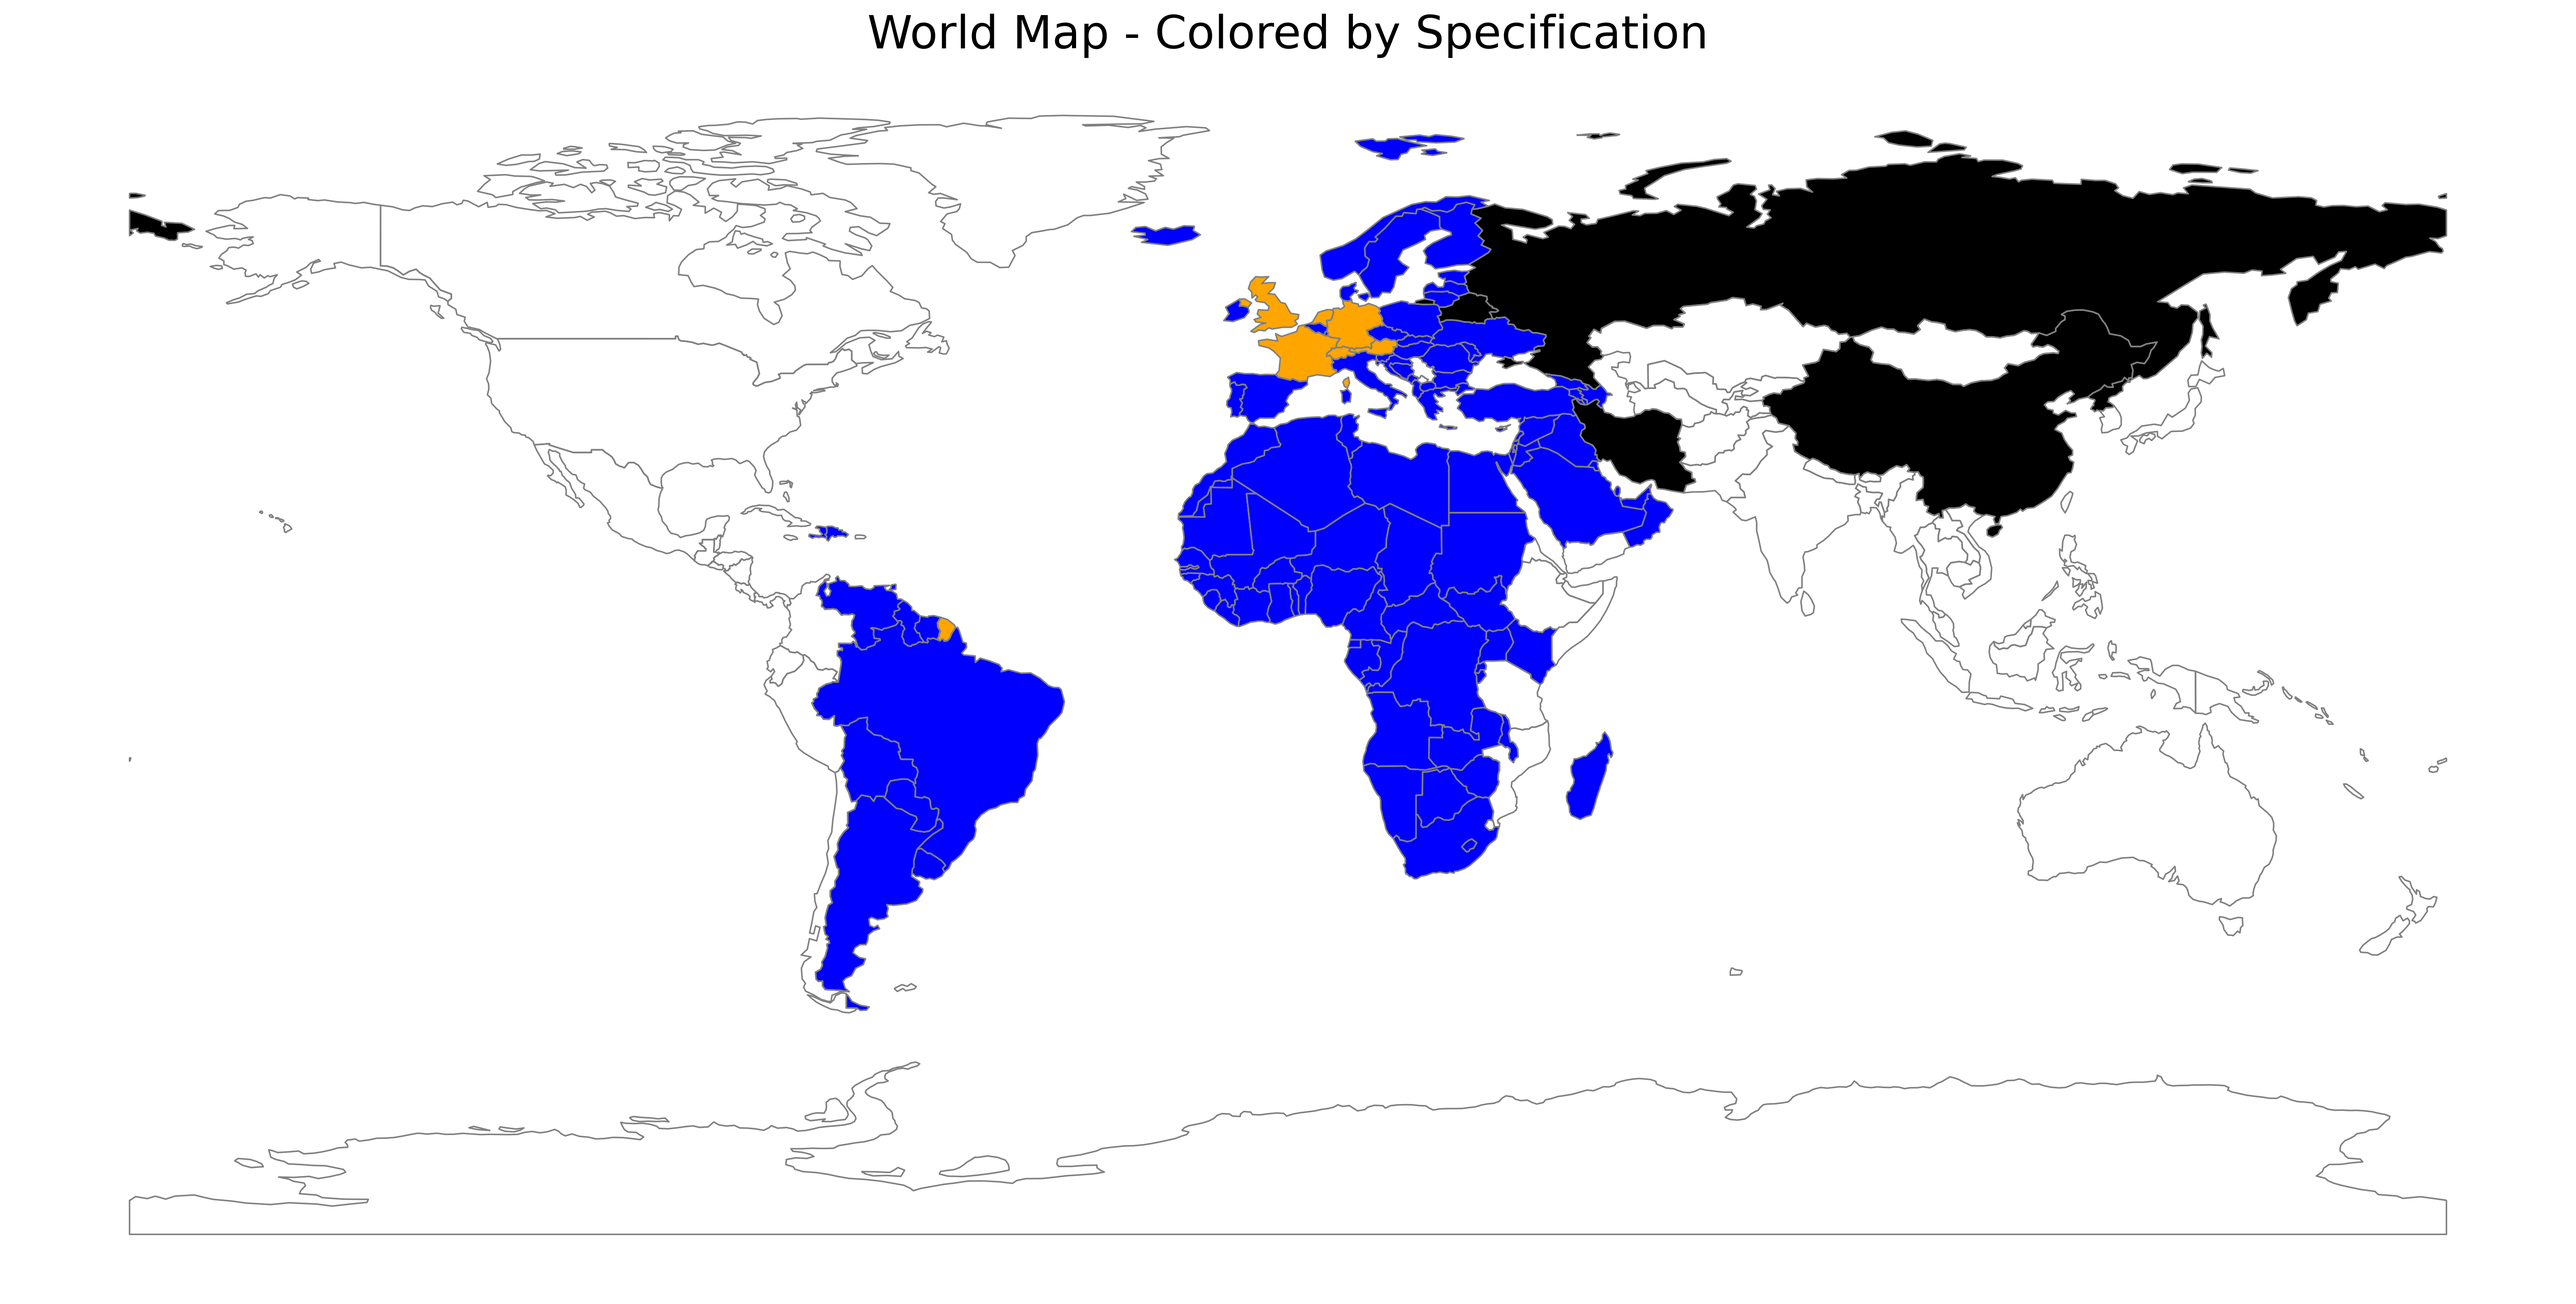
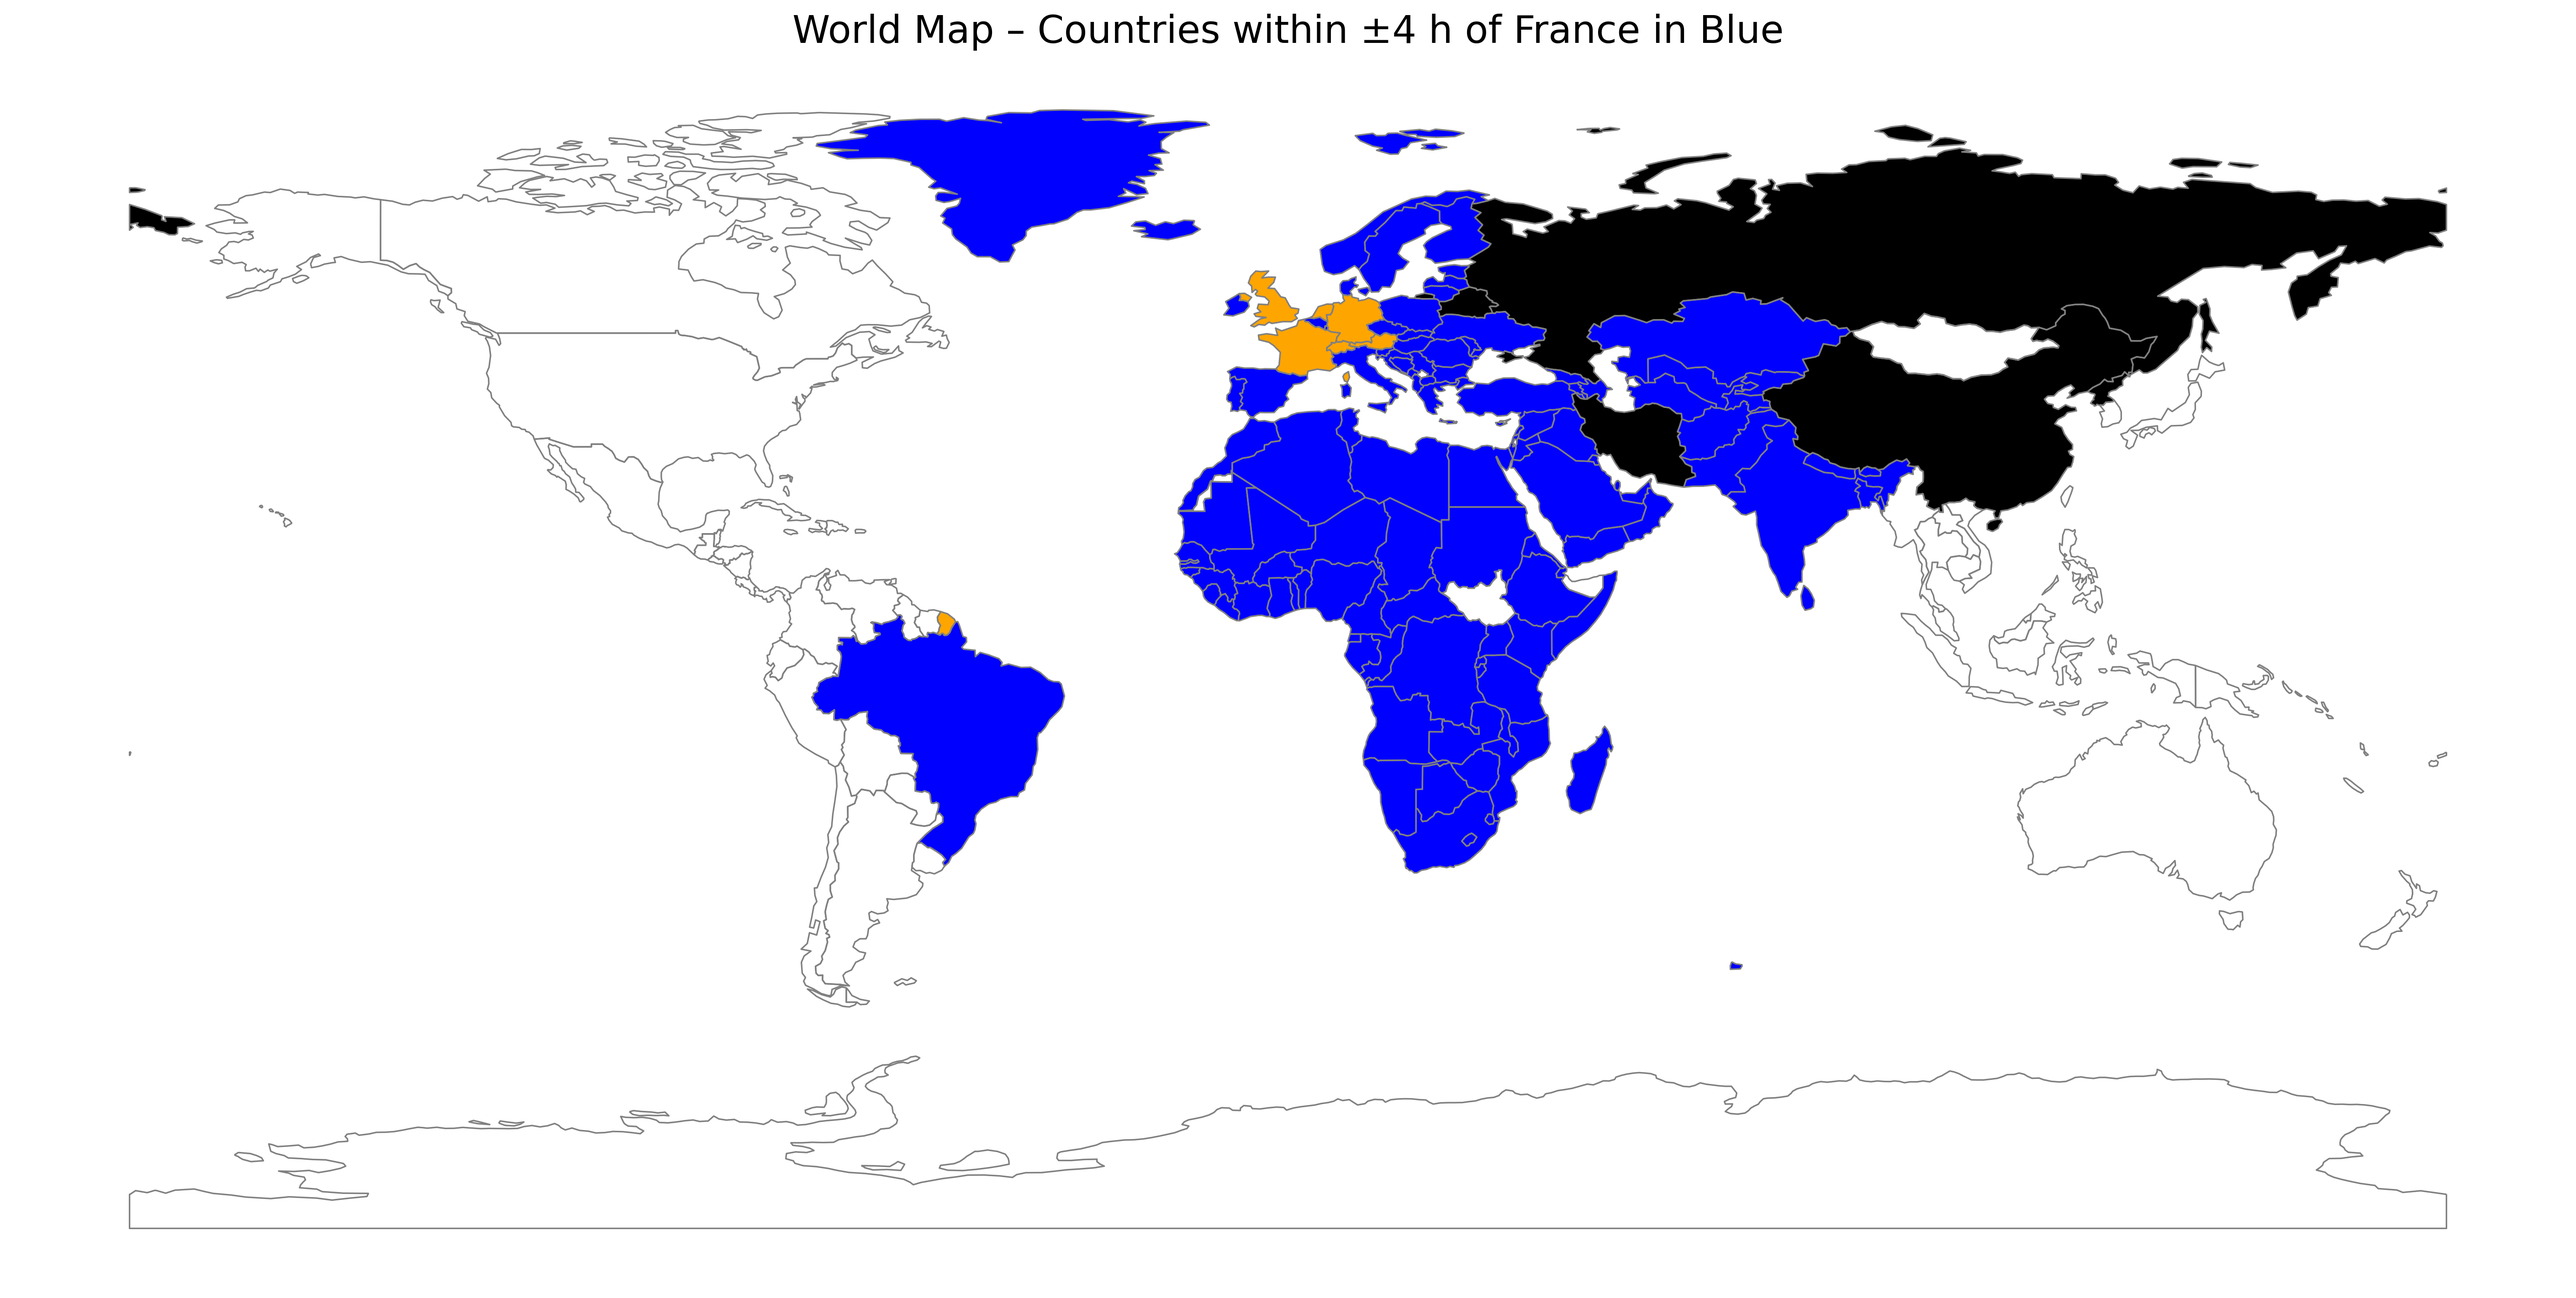
modified:   world_map_coloring.py

diff --git a/world_map_coloring.py b/world_map_coloring.py
@@ -1,73 +1,96 @@
 # world_map_coloring.py
-# 🌍 World Map Coloring Script
+# 🌍 Dynamic ±4 h world map – matching by ISO-3 codes
 
 import geopandas as gpd
 import matplotlib.pyplot as plt
+import pytz
+import pycountry
+import pycountry_convert
+from datetime import datetime, timezone
 
-# URL to the world countries data (GeoJSON format)
-WORLD_MAP_URL = 'https://raw.githubusercontent.com/nvkelso/natural-earth-vector/master/geojson/ne_110m_admin_0_countries.geojson'
+WORLD_MAP_URL = (
+    "https://raw.githubusercontent.com/nvkelso/"
+    "natural-earth-vector/master/geojson/"
+    "ne_110m_admin_0_countries.geojson"
+)
 
-# Define countries to color
-ORANGE_COUNTRIES = ['France', 'Germany', 'United Kingdom', 'Netherlands', 'Switzerland', 'Austria']
-BLACK_COUNTRIES = ['China', 'Russia', 'Belarus', 'Iran', 'North Korea']
-BLUE_COUNTRIES = [
-    # America
-    'Venezuela', 'Guyana', 'Suriname', 'Dominican Republic', 'Haiti', 'Trinidad and Tobago',
-    'Saint Kitts and Nevis', 'Saint Lucia', 'Saint Vincent and the Grenadines', 'Grenada', 'Barbados',
-    'Argentina', 'Uruguay', 'Brazil', 'Paraguay', 'Bolivia', 'Bahamas', 'Bermuda',
-    
-    # Europe
-    'Ireland', 'Portugal', 'Spain', 'Italy', 'Belgium', 'Luxembourg', 'Norway', 'Sweden', 'Denmark',
-    'Finland', 'Poland', 'Czechia', 'Slovakia', 'Hungary', 'Croatia', 'Slovenia', 'Serbia', 
-    'Bosnia and Herzegovina', 'Montenegro', 'North Macedonia', 'Albania', 'Greece', 'Bulgaria',
-    'Romania', 'Ukraine', 'Moldova', 'Estonia', 'Latvia', 'Lithuania', 'Malta', 'Cyprus',
-    'Iceland', 'Andorra', 'San Marino', 'Monaco', 'Liechtenstein',
-    
-    # Africa
-      'Mauritania', 'Western Sahara', 'Morocco', 'Algeria', 'Tunisia', 'Libya', 'Egypt',
-    'Mali', 'Senegal', 'Gambia', 'Guinea', 'Guinea-Bissau', 'Sierra Leone', 'Liberia',
-    'Ivory Coast', 'Ghana', 'Togo', 'Benin', 'Burkina Faso', 'Niger', 'Nigeria',
-    'Chad', 'Cameroon', 'Central African Republic', 'South Sudan', 'Sudan',
-    'Democratic Republic of the Congo', 'Republic of the Congo', 'Gabon', 'Equatorial Guinea',
-    'Uganda', 'Kenya', 'Tanzania', 'Rwanda', 'Burundi', 'Malawi', 'Zambia', 'Zimbabwe',
-    'Angola', 'Namibia', 'Botswana', 'South Africa', 'Lesotho', 'Eswatini', 'Madagascar',
-    'Comoros', 'Seychelles', 'Mauritius',
-    
-    # Middle-East / West-Asia
-    'Turkey', 'Cyprus', 'Israel', 'Palestine', 'Jordan', 'Lebanon', 'Syria', 'Iraq',
-    'Saudi Arabia', 'Kuwait', 'Bahrain', 'Qatar', 'United Arab Emirates', 'Oman',
-    'Armenia', 'Azerbaijan', 'Georgia'
-
+# ───────────────────────────── 1. Static definitions
+ORANGE_COUNTRY_NAMES = [
+    "France", "Germany", "United Kingdom",
+    "Netherlands", "Switzerland", "Austria",
 ]
 
+BLACK_COUNTRY_NAMES = [
+    "China", "Russia", "Belarus",
+    "Iran", "North Korea",
+]
 
-def get_color(country_name):
-    if country_name in ORANGE_COUNTRIES:
-        return 'orange'
-    elif country_name in BLACK_COUNTRIES:
-        return 'black'
-    elif country_name in BLUE_COUNTRIES:
-        return 'blue'
-    else:
-        return 'white'
+def to_iso3(name: str) -> str:
+    """Return ISO-3 code from a common country name."""
+    try:
+        return pycountry.countries.lookup(name).alpha_3
+    except LookupError:
+        return pycountry.countries.search_fuzzy(name)[0].alpha_3
 
-def main():
-    # Load world map data
+# Build static ISO-3 sets
+ORANGE_ALPHA3 = {to_iso3(name) for name in ORANGE_COUNTRY_NAMES}
+BLACK_ALPHA3  = {to_iso3(name) for name in BLACK_COUNTRY_NAMES}
+
+# ───────────────────────────── 2. Helper functions
+def primary_offset(alpha2: str, now_utc: datetime) -> float | None:
+    """Return current UTC offset (in hours) for a country's primary timezone."""
+    tz_list = pytz.country_timezones.get(alpha2)
+    if not tz_list:
+        return None
+    tz = pytz.timezone(tz_list[0])
+    offset = tz.fromutc(now_utc.replace(tzinfo=None)).utcoffset()
+    return offset.total_seconds() / 3600
+
+def build_blue_alpha3() -> set[str]:
+    """Return a set of α-3 codes of countries within ±4 h of France."""
+    now_utc   = datetime.now(timezone.utc)
+    tz_paris  = pytz.timezone("Europe/Paris")
+    fr_offset = tz_paris.fromutc(now_utc.replace(tzinfo=None)).utcoffset().total_seconds() / 3600
+
+    blue = set()
+    for c in pycountry.countries:
+        off = primary_offset(c.alpha_2, now_utc)
+        if off is None or abs(off - fr_offset) > 4:
+            continue
+        blue.add(c.alpha_3)
+
+    # Exclude Orange and Black countries
+    return blue - ORANGE_ALPHA3 - BLACK_ALPHA3
+
+# Build BLUE_ALPHA3 dynamically
+BLUE_ALPHA3 = build_blue_alpha3()
+
+# ───────────────────────────── 3. Color selector
+def color_from_iso3(iso3: str) -> str:
+    """Return color based on ISO-3 code."""
+    if iso3 in ORANGE_ALPHA3:
+        return "orange"
+    if iso3 in BLACK_ALPHA3:
+        return "black"
+    if iso3 in BLUE_ALPHA3:
+        return "blue"
+    return "white"
+
+# ───────────────────────────── 4. Main script
+def main() -> None:
     world = gpd.read_file(WORLD_MAP_URL)
 
-    # Assign colors
-    world['color'] = world['ADMIN'].apply(get_color)
+    # Color by iso_a3 code
+    world["color"] = world["ADM0_A3"].str.upper().apply(color_from_iso3)
 
-    # Create the plot
     fig, ax = plt.subplots(figsize=(24, 12))
-    world.boundary.plot(ax=ax, linewidth=0.8, color='grey')
-    world.plot(ax=ax, color=world['color'], edgecolor='grey', linewidth=0.5)
+    world.boundary.plot(ax=ax, linewidth=0.8, color="grey")
+    world.plot(ax=ax, color=world["color"], edgecolor="grey", linewidth=0.5)
 
-    ax.set_title('World Map - Colored by Specification', fontsize=24)
+    ax.set_title("World Map – Countries within ±4 h of France in Blue", fontsize=20)
     ax.set_axis_off()
 
-    # Save the plot
-    plt.savefig('colored_world_map.png', bbox_inches='tight', dpi=300)
+    plt.savefig("colored_world_map.png", bbox_inches="tight", dpi=300)
     plt.show()
 
 if __name__ == "__main__":
